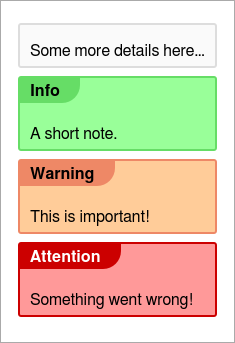
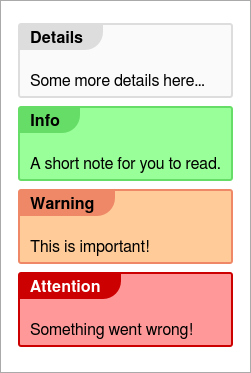
Add header to detail box and optimize console output of boxes.

diff --git a/src/doc/box.html b/src/doc/box.html
@@ -3,13 +3,13 @@
   <head>
     <title>Report</title>
     <meta charset="UTF-8" />
-    <style type="text/css">html{background:#ddd;padding:20px}body{font-family:"Helvetica Neue",Helvetica,"Segoe UI",Arial,freesans,sans-serif,"Apple Color Emoji","Segoe UI Emoji","Segoe UI Symbol";font-size:16px;line-height:1.2;word-wrap:break-word}div#page{border:1px solid #aaa;box-shadow:0 8px 16px 0 rgba(0,0,0,0.4),0 12px 40px 0 rgba(0,0,0,0.4);max-width:800px;display:inline-block;background:#fff;padding:17px;overflow:auto}div#page > h1{margin-top:0}h1{border-bottom:3px solid #222;padding-bottom:5px}h2{border-bottom:2px dotted #222;padding-bottom:3px}h3{border-bottom:1px dotted #aaa;padding-bottom:2px}a{color:#00008b}dt{font-weight:bold;margin-top:8px}blockquote{border:1px solid #eee;border-radius:3px;border-left:5px solid color-blue;padding:15px;margin:0}img{vertical-align:middle}.emoji{height:1em}abbr,acronym{border-bottom:dotted 1px}table{border-collapse:collapse;border-spacing:0;display:block;width:100%;overflow:auto;word-break:normal;word-break:keep-all;}table th,table td{padding:6px 13px;border:1px solid #ddd}table th{background-color:rgba(0,0,0,0.04);font-weight:bold;border-bottom:3px solid #999}table tr{background-color:#fff;border-top:1px solid #ccc;}table tr :nth-child(2n){background-color:rgba(0,0,0,0.04)}code,tt{background-color:#fafafa;border-radius:4px;font-size:85%;margin:0;padding:.2em 0}pre{background-color:#fafafa;border-radius:10px;border:1px solid #a4a4a4;font-size:85%;margin:20px;padding:10px;counter-reset:line;}pre code,pre tt{background:none;}pre code:before,pre tt:before{counter-increment:line;content:counter(line);min-width:35px;display:block;float:left;text-align:right;padding-right:5px;color:#808080;-webkit-touch-callout:none;user-select:none;-webkit-user-select:none}pre.language{max-height:280px;padding-top:30px;}pre.language header{font-weight:bold;background:#fafafa;margin:-30px -10px 5px -10px;padding:5px 15px}pre.language.bash header,pre.language.coffeescript header,pre.language.js header,pre.language.sh header,pre.language.sql header{background:#f0ad4e}pre.language.json header,pre.language.yaml header{background:#61b961}pre.language.handlebars header,pre.language.markdown header{background:#76abca}.table-of-contents{border:2px solid #ddd;border-radius:10px;float:right;margin-top:0;padding:10px 10px 10px 25px;background:#fafafa;font-size:90%;}.table-of-contents header{font-weight:bold;font-size:120%;display:block;background:#ddd;margin:-10px -10px 4px -25px;border-top-left-radius:10px;border-top-right-radius:10px;padding:3px 10px}.table-of-contents ul{padding-left:15px}.table-of-contents a{text-decoration:none}div.detail,div.info,div.warning,div.alert{padding:30px 10px 6px 10px;margin:5px 0 8px 0;border-radius:3px;}div.detail >p,div.info >p,div.warning >p,div.alert >p{margin-bottom:0}div.detail header,div.info header,div.warning header,div.alert header{font-weight:bold;position:absolute;margin-top:-30px;margin-left:-10px;padding:3px 20px 3px 10px;border-bottom-right-radius:18px}div.detail{background-color:#fafafa;border:2px solid #ddd;padding-top:0}div.info{background-color:#9f9;border:2px solid #6d6;}div.info header{background-color:#6d6}div.warning{background-color:#fc9;border:2px solid #e86;}div.warning header{background-color:#e86}div.alert{background-color:#f99;border:2px solid #c00;}div.alert header{background-color:#c00;color:#fff}.text-red{color:#d13f19}.text-green{color:#2ecc40}.text-yellow{color:#ffdc00}.text-blue{color:#0074d9}.text-magenta{color:#f0f}.text-cyan{color:#0ff}.text-gray{color:#aaa}.bg-white{background-color:#fff}.center{text-align:center}.left{float:left}.right{float:right}.hide{display:none}.spacing{padding:10px}</style>
+    <style type="text/css">html{background:#ddd;padding:20px}body{font-family:"Helvetica Neue",Helvetica,"Segoe UI",Arial,freesans,sans-serif,"Apple Color Emoji","Segoe UI Emoji","Segoe UI Symbol";font-size:16px;line-height:1.2;word-wrap:break-word}div#page{border:1px solid #aaa;box-shadow:0 8px 16px 0 rgba(0,0,0,0.4),0 12px 40px 0 rgba(0,0,0,0.4);max-width:800px;display:inline-block;background:#fff;padding:17px;overflow:auto}div#page > h1{margin-top:0}h1{border-bottom:3px solid #222;padding-bottom:5px}h2{border-bottom:2px dotted #222;padding-bottom:3px}h3{border-bottom:1px dotted #aaa;padding-bottom:2px}a{color:#00008b}dt{font-weight:bold;margin-top:8px}blockquote{border:1px solid #eee;border-radius:3px;border-left:5px solid color-blue;padding:15px;margin:0}img{vertical-align:middle}.emoji{height:1em}abbr,acronym{border-bottom:dotted 1px}table{border-collapse:collapse;border-spacing:0;display:block;width:100%;overflow:auto;word-break:normal;word-break:keep-all;}table th,table td{padding:6px 13px;border:1px solid #ddd}table th{background-color:rgba(0,0,0,0.04);font-weight:bold;border-bottom:3px solid #999}table tr{background-color:#fff;border-top:1px solid #ccc;}table tr :nth-child(2n){background-color:rgba(0,0,0,0.04)}code,tt{background-color:#fafafa;border-radius:4px;font-size:85%;margin:0;padding:.2em 0}pre{background-color:#fafafa;border-radius:10px;border:1px solid #a4a4a4;font-size:85%;margin:20px;padding:10px;counter-reset:line;}pre code,pre tt{background:none;}pre code:before,pre tt:before{counter-increment:line;content:counter(line);min-width:35px;display:block;float:left;text-align:right;padding-right:5px;color:#808080;-webkit-touch-callout:none;user-select:none;-webkit-user-select:none}pre.language{max-height:280px;padding-top:30px;}pre.language header{font-weight:bold;background:#fafafa;margin:-30px -10px 5px -10px;padding:5px 15px}pre.language.bash header,pre.language.coffeescript header,pre.language.js header,pre.language.sh header,pre.language.sql header{background:#f0ad4e}pre.language.json header,pre.language.yaml header{background:#61b961}pre.language.handlebars header,pre.language.markdown header{background:#76abca}.table-of-contents{border:2px solid #ddd;border-radius:10px;float:right;margin-top:0;padding:10px 10px 10px 25px;background:#fafafa;font-size:90%;}.table-of-contents header{font-weight:bold;font-size:120%;display:block;background:#ddd;margin:-10px -10px 4px -25px;border-top-left-radius:10px;border-top-right-radius:10px;padding:3px 10px}.table-of-contents ul{padding-left:15px}.table-of-contents a{text-decoration:none}div.detail,div.info,div.warning,div.alert{padding:30px 10px 6px 10px;margin:5px 0 8px 0;border-radius:3px;}div.detail >p,div.info >p,div.warning >p,div.alert >p{margin-bottom:0}div.detail header,div.info header,div.warning header,div.alert header{font-weight:bold;position:absolute;margin-top:-30px;margin-left:-10px;padding:3px 20px 3px 10px;border-bottom-right-radius:18px}div.detail{background-color:#fafafa;border:2px solid #ddd;}div.detail header{background-color:#ddd}div.info{background-color:#9f9;border:2px solid #6d6;}div.info header{background-color:#6d6}div.warning{background-color:#fc9;border:2px solid #e86;}div.warning header{background-color:#e86}div.alert{background-color:#f99;border:2px solid #c00;}div.alert header{background-color:#c00;color:#fff}.text-red{color:#d13f19}.text-green{color:#2ecc40}.text-yellow{color:#ffdc00}.text-blue{color:#0074d9}.text-magenta{color:#f0f}.text-cyan{color:#0ff}.text-gray{color:#aaa}.bg-white{background-color:#fff}.center{text-align:center}.left{float:left}.right{float:right}.hide{display:none}.spacing{padding:10px}</style>
   </head>
-  <body><div id="page"><div class="detail">
+  <body><div id="page"><div class="detail"><header>Details</header>
 <p>Some more details here…</p>
 </div>
 <div class="info"><header>Info</header>
-<p>A short note.</p>
+<p>A short note for you to read.</p>
 </div>
 <div class="warning"><header>Warning</header>
 <p>This is important!</p>

diff --git a/var/src/template/report/default.css b/var/src/template/report/default.css
@@ -1,1 +1,1 @@
-html{background:#ddd;padding:20px}body{font-family:"Helvetica Neue",Helvetica,"Segoe UI",Arial,freesans,sans-serif,"Apple Color Emoji","Segoe UI Emoji","Segoe UI Symbol";font-size:16px;line-height:1.2;word-wrap:break-word}div#page{border:1px solid #aaa;box-shadow:0 8px 16px 0 rgba(0,0,0,0.4),0 12px 40px 0 rgba(0,0,0,0.4);max-width:800px;display:inline-block;background:#fff;padding:17px;overflow:auto}div#page > h1{margin-top:0}h1{border-bottom:3px solid #222;padding-bottom:5px}h2{border-bottom:2px dotted #222;padding-bottom:3px}h3{border-bottom:1px dotted #aaa;padding-bottom:2px}a{color:#00008b}dt{font-weight:bold;margin-top:8px}blockquote{border:1px solid #eee;border-radius:3px;border-left:5px solid color-blue;padding:15px;margin:0}img{vertical-align:middle}.emoji{height:1em}abbr,acronym{border-bottom:dotted 1px}table{border-collapse:collapse;border-spacing:0;display:block;width:100%;overflow:auto;word-break:normal;word-break:keep-all;}table th,table td{padding:6px 13px;border:1px solid #ddd}table th{background-color:rgba(0,0,0,0.04);font-weight:bold;border-bottom:3px solid #999}table tr{background-color:#fff;border-top:1px solid #ccc;}table tr :nth-child(2n){background-color:rgba(0,0,0,0.04)}code,tt{background-color:#fafafa;border-radius:4px;font-size:85%;margin:0;padding:.2em 0}pre{background-color:#fafafa;border-radius:10px;border:1px solid #a4a4a4;font-size:85%;margin:20px;padding:10px;counter-reset:line;}pre code,pre tt{background:none;}pre code:before,pre tt:before{counter-increment:line;content:counter(line);min-width:35px;display:block;float:left;text-align:right;padding-right:5px;color:#808080;-webkit-touch-callout:none;user-select:none;-webkit-user-select:none}pre.language{max-height:280px;padding-top:30px;}pre.language header{font-weight:bold;background:#fafafa;margin:-30px -10px 5px -10px;padding:5px 15px}pre.language.bash header,pre.language.coffeescript header,pre.language.js header,pre.language.sh header,pre.language.sql header{background:#f0ad4e}pre.language.json header,pre.language.yaml header{background:#61b961}pre.language.handlebars header,pre.language.markdown header{background:#76abca}.table-of-contents{border:2px solid #ddd;border-radius:10px;float:right;margin-top:0;padding:10px 10px 10px 25px;background:#fafafa;font-size:90%;}.table-of-contents header{font-weight:bold;font-size:120%;display:block;background:#ddd;margin:-10px -10px 4px -25px;border-top-left-radius:10px;border-top-right-radius:10px;padding:3px 10px}.table-of-contents ul{padding-left:15px}.table-of-contents a{text-decoration:none}div.detail,div.info,div.warning,div.alert{padding:30px 10px 6px 10px;margin:5px 0 8px 0;border-radius:3px;}div.detail >p,div.info >p,div.warning >p,div.alert >p{margin-bottom:0}div.detail header,div.info header,div.warning header,div.alert header{font-weight:bold;position:absolute;margin-top:-30px;margin-left:-10px;padding:3px 20px 3px 10px;border-bottom-right-radius:18px}div.detail{background-color:#fafafa;border:2px solid #ddd;padding-top:0}div.info{background-color:#9f9;border:2px solid #6d6;}div.info header{background-color:#6d6}div.warning{background-color:#fc9;border:2px solid #e86;}div.warning header{background-color:#e86}div.alert{background-color:#f99;border:2px solid #c00;}div.alert header{background-color:#c00;color:#fff}.text-red{color:#d13f19}.text-green{color:#2ecc40}.text-yellow{color:#ffdc00}.text-blue{color:#0074d9}.text-magenta{color:#f0f}.text-cyan{color:#0ff}.text-gray{color:#aaa}.bg-white{background-color:#fff}.center{text-align:center}.left{float:left}.right{float:right}.hide{display:none}.spacing{padding:10px}
+html{background:#ddd;padding:20px}body{font-family:"Helvetica Neue",Helvetica,"Segoe UI",Arial,freesans,sans-serif,"Apple Color Emoji","Segoe UI Emoji","Segoe UI Symbol";font-size:16px;line-height:1.2;word-wrap:break-word}div#page{border:1px solid #aaa;box-shadow:0 8px 16px 0 rgba(0,0,0,0.4),0 12px 40px 0 rgba(0,0,0,0.4);max-width:800px;display:inline-block;background:#fff;padding:17px;overflow:auto}div#page > h1{margin-top:0}h1{border-bottom:3px solid #222;padding-bottom:5px}h2{border-bottom:2px dotted #222;padding-bottom:3px}h3{border-bottom:1px dotted #aaa;padding-bottom:2px}a{color:#00008b}dt{font-weight:bold;margin-top:8px}blockquote{border:1px solid #eee;border-radius:3px;border-left:5px solid color-blue;padding:15px;margin:0}img{vertical-align:middle}.emoji{height:1em}abbr,acronym{border-bottom:dotted 1px}table{border-collapse:collapse;border-spacing:0;display:block;width:100%;overflow:auto;word-break:normal;word-break:keep-all;}table th,table td{padding:6px 13px;border:1px solid #ddd}table th{background-color:rgba(0,0,0,0.04);font-weight:bold;border-bottom:3px solid #999}table tr{background-color:#fff;border-top:1px solid #ccc;}table tr :nth-child(2n){background-color:rgba(0,0,0,0.04)}code,tt{background-color:#fafafa;border-radius:4px;font-size:85%;margin:0;padding:.2em 0}pre{background-color:#fafafa;border-radius:10px;border:1px solid #a4a4a4;font-size:85%;margin:20px;padding:10px;counter-reset:line;}pre code,pre tt{background:none;}pre code:before,pre tt:before{counter-increment:line;content:counter(line);min-width:35px;display:block;float:left;text-align:right;padding-right:5px;color:#808080;-webkit-touch-callout:none;user-select:none;-webkit-user-select:none}pre.language{max-height:280px;padding-top:30px;}pre.language header{font-weight:bold;background:#fafafa;margin:-30px -10px 5px -10px;padding:5px 15px}pre.language.bash header,pre.language.coffeescript header,pre.language.js header,pre.language.sh header,pre.language.sql header{background:#f0ad4e}pre.language.json header,pre.language.yaml header{background:#61b961}pre.language.handlebars header,pre.language.markdown header{background:#76abca}.table-of-contents{border:2px solid #ddd;border-radius:10px;float:right;margin-top:0;padding:10px 10px 10px 25px;background:#fafafa;font-size:90%;}.table-of-contents header{font-weight:bold;font-size:120%;display:block;background:#ddd;margin:-10px -10px 4px -25px;border-top-left-radius:10px;border-top-right-radius:10px;padding:3px 10px}.table-of-contents ul{padding-left:15px}.table-of-contents a{text-decoration:none}div.detail,div.info,div.warning,div.alert{padding:30px 10px 6px 10px;margin:5px 0 8px 0;border-radius:3px;}div.detail >p,div.info >p,div.warning >p,div.alert >p{margin-bottom:0}div.detail header,div.info header,div.warning header,div.alert header{font-weight:bold;position:absolute;margin-top:-30px;margin-left:-10px;padding:3px 20px 3px 10px;border-bottom-right-radius:18px}div.detail{background-color:#fafafa;border:2px solid #ddd;}div.detail header{background-color:#ddd}div.info{background-color:#9f9;border:2px solid #6d6;}div.info header{background-color:#6d6}div.warning{background-color:#fc9;border:2px solid #e86;}div.warning header{background-color:#e86}div.alert{background-color:#f99;border:2px solid #c00;}div.alert header{background-color:#c00;color:#fff}.text-red{color:#d13f19}.text-green{color:#2ecc40}.text-yellow{color:#ffdc00}.text-blue{color:#0074d9}.text-magenta{color:#f0f}.text-cyan{color:#0ff}.text-gray{color:#aaa}.bg-white{background-color:#fff}.center{text-align:center}.left{float:left}.right{float:right}.hide{display:none}.spacing{padding:10px}

diff --git a/src/doc/box.md b/src/doc/box.md
@@ -4,7 +4,7 @@ Some more details here...
 :::
 
 ::: info
-A short note.
+A short note for you to read.
 :::
 
 ::: warning
